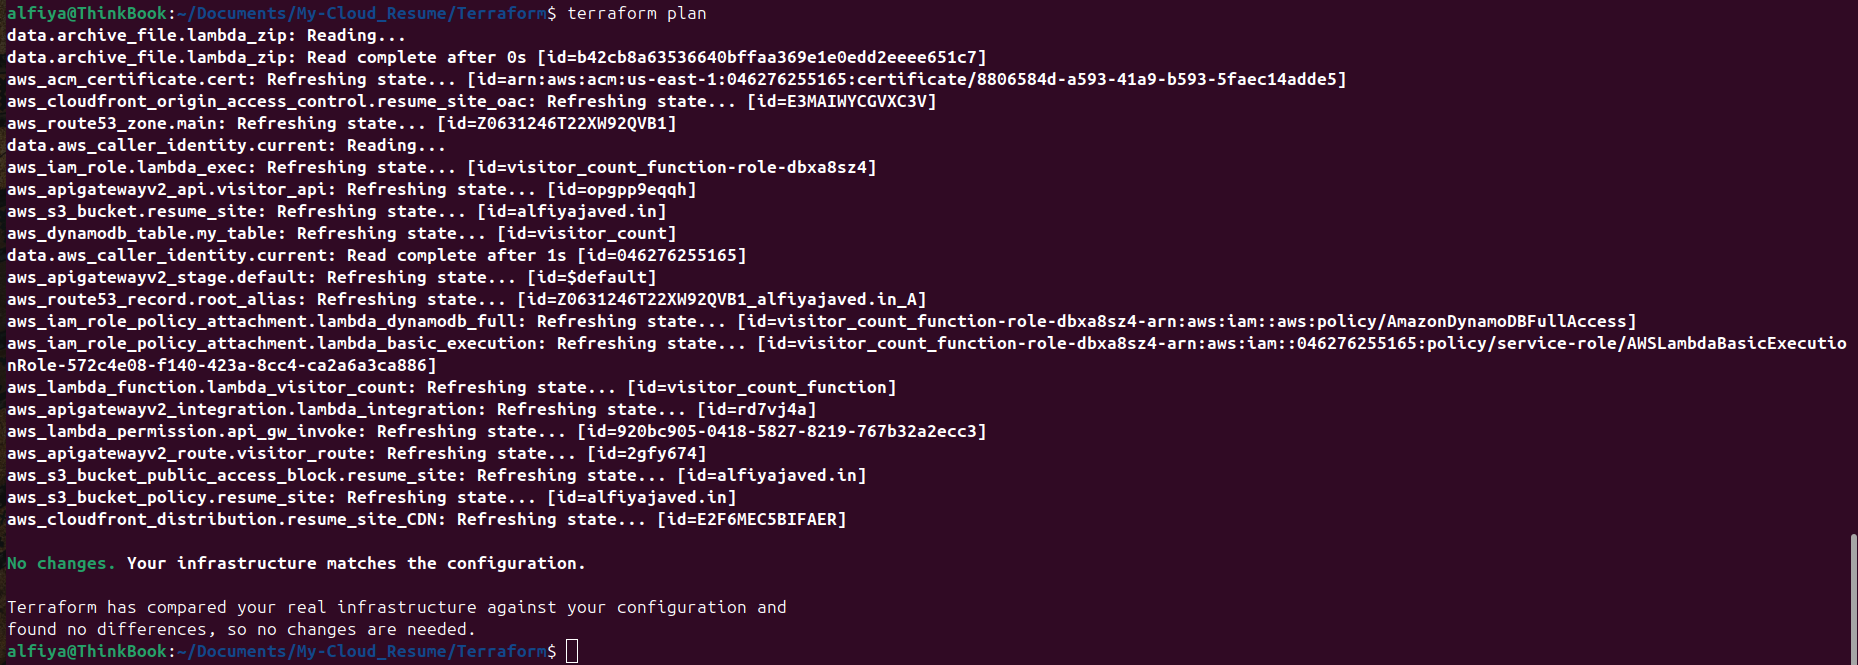
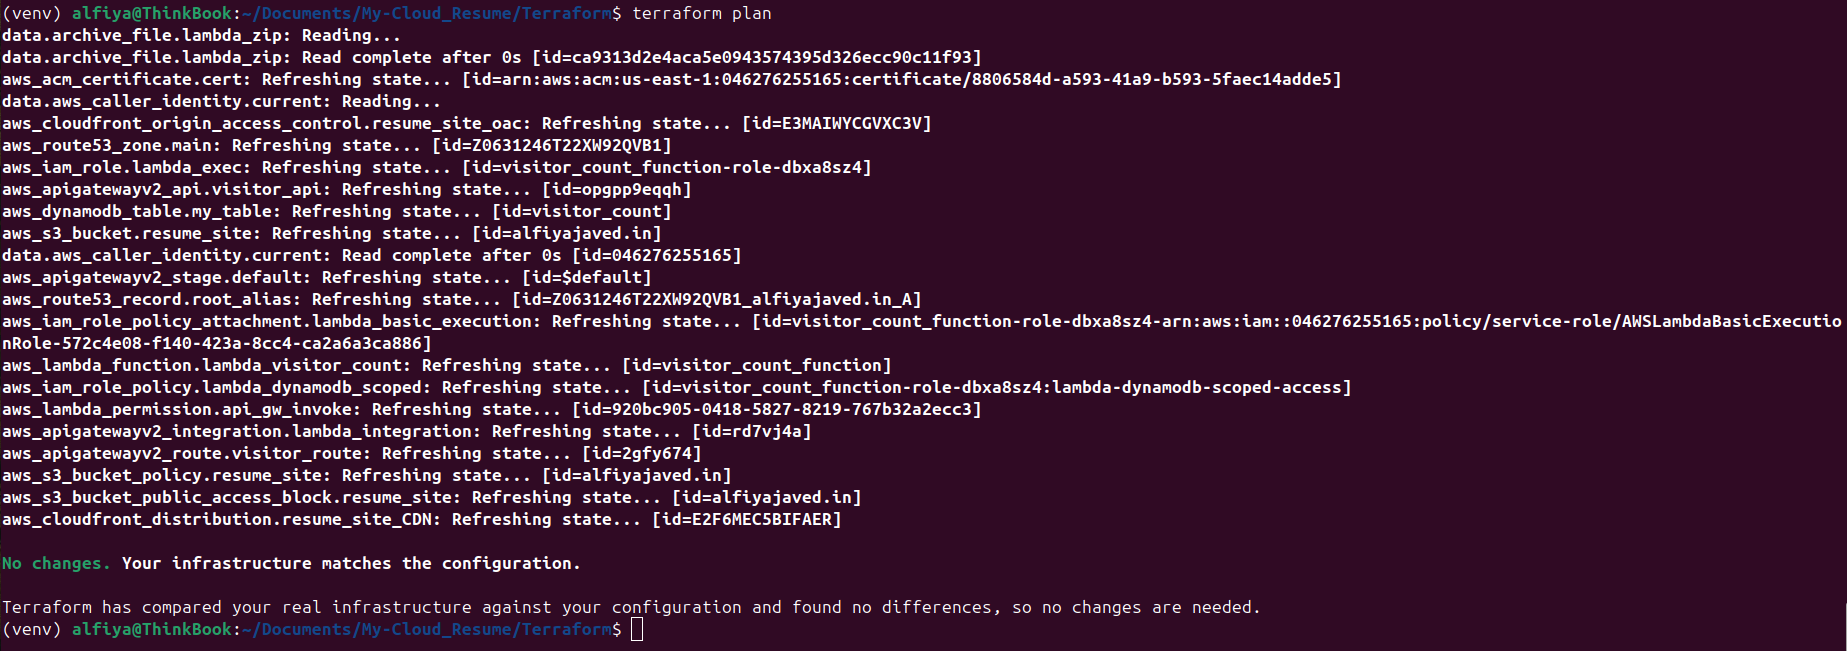
Added Lambda file

Changed region(s): [[0.0, 0.0, 1.0, 1.0], [0.9875, 0.7988, 1.0, 1.0]]

diff --git a/Backend/lambda_function.py b/Backend/lambda_function.py
@@ -29,8 +29,6 @@ def lambda_handler(event, context):
     # 4. Return the data to API Gateway (and eventually your JavaScript)
     return {
         'statusCode': 200,
-        'headers': {
-            'Access-Control-Allow-Origin': '*' # Crucial! This allows your web browser to accept the data
-        },
+ 
         'body': json.dumps({'visitor_count': new_count})
     }
